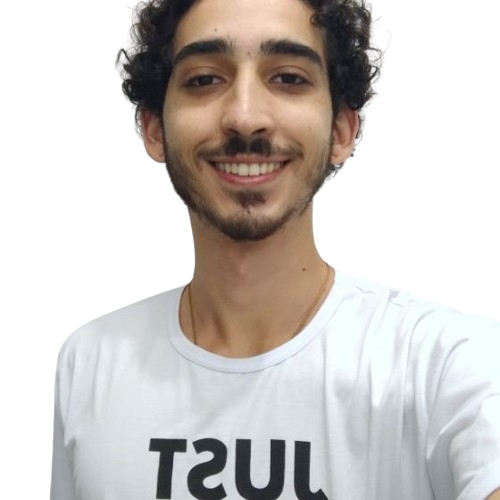
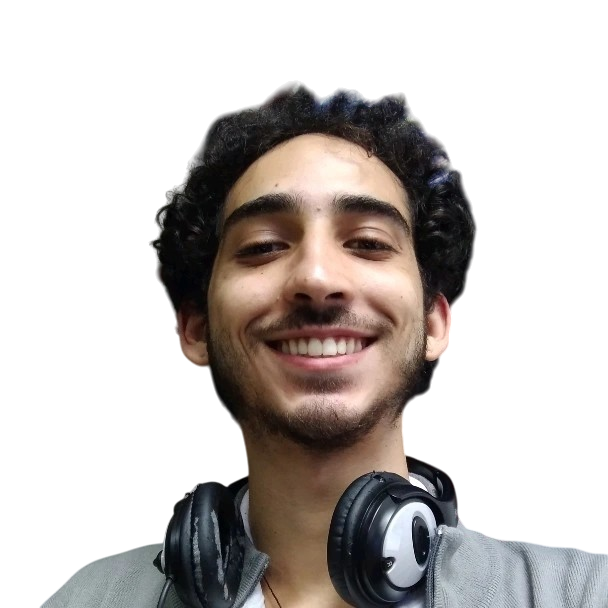
two slides per page

diff --git a/index.html b/index.html
@@ -6,13 +6,12 @@
   <meta charset="utf-8">
   <meta content="width=device-width, initial-scale=1.0" name="viewport">
 
-  <title>RicardoBPC - Portfólio</title>
+  <title>Ricardo Patriani</title>
   <meta content="" name="description">
   <meta content="" name="keywords">
 
   <!-- Favicons -->
-  <link href="assets/img/favicon.png" rel="icon">
-  <link href="assets/img/apple-touch-icon.png" rel="apple-touch-icon">
+  <link href="assets/img/favicon.png" rel="icon" >
 
   <!-- Google Fonts -->
   <link href="https://fonts.googleapis.com/css?family=Open+Sans:300,300i,400,400i,600,600i,700,700i|Raleway:300,300i,400,400i,500,500i,600,600i,700,700i|Poppins:300,300i,400,400i,500,500i,600,600i,700,700i" rel="stylesheet">
@@ -63,7 +62,7 @@
     <div class="container" data-aos="zoom-in" data-aos-delay="100">
       <h2>Ricardo B. Patriani de Carvalho</h2>
       <!-- <p>I'm <span class="typed typed_extra_style" data-typed-items="DBA Oracle, OGG Administrator, Data Science Enthusiast"></span></p> -->
-      <p><span class="typed typed_extra_style" data-typed-items="Apaixonado por dados, Busca inovação (otimizada),e por meios criteriosos "></span></p>
+      <p><span class="typed typed_extra_style" data-typed-items="Orientado a dados, Soluções otimizadas, Aprendizado contínuo e acelerado"></span></p>
       <div class="social-links">
         <a href="mailto:patriani.ricardo@gmail.com" class="google-plus"><i class="bi bi-envelope-at-fill"></i></a>
         <a href="https://github.com/patriani" class="google-plus"><i class="bi bi-github"></i></a>
@@ -95,13 +94,12 @@
             <h3 style="margin-bottom: 1rem ;">Sobre:</h3>
             <p>
               Prezados, <br>
-            Sou Ricardo Bortolucci P. de Carvalho, 23 anos, formado em Sistemas de Informação pela Universidade Federal de Viçosa (MG). Atuei como Analista de Qualidade de Software, Assessor de Marketing, Monitor de Matemática Discreta e atualmente sou Trainee Database Administrator (DBA). Como características pessoais centrais, destaco: curiosidade, criatividade e ótima capacidade em aprender de forma acelerada e autônoma.
-            Certo de sua atenção, fico ao dispor para melhores esclarecimentos.
+              Adapto-me rapidamente a novas tecnologias, atuo com precisão em situações emergenciais e mantenho um relacionamento eficiente com stackholders. Sou motivado pela resolução criativa de problemas, guiado por curiosidade, autodidatismo e busca contínua por excelência. 
             </p>
+
             <div class="row" style="margin-top:  4rem;">
               <h3>Conhecimentos:</h3>
-              <!--<div class="col-lg-6"></div>-->
-              <div class="col-lg-6">
+              <div class="col-lg-6" style="width:100%">
 
                 <div class="testimonials-slider swiper" data-aos="fade-up" data-aos-delay="100">
                   <div class="swiper-wrapper">
@@ -118,7 +116,7 @@
                     </p>
                     </div>
                   </div>
-                  <!-- End testimonial item -->
+                  <!-- End item -->
                   <div class="swiper-slide">
                     <div class="testimonial-item">
                       <svg xmlns="http://www.w3.org/2000/svg" width="4rem" height="4rem" fill="currentColor" class="bi bi-filetype-py" viewBox="0 0 16 16" style=" color: #0678e3;">
@@ -129,7 +127,7 @@
                       Um ano de experiência profissional com Python em troubleshooting e manutenção de APIs. Uso acadêmico desde 2018, atualmente aplicado a projetos de dados na pós-graduação em Inteligência Artificial.                    </p>
                     </div>
                   </div>
-                  <!-- End testimonial item -->
+                  <!-- End item -->
                   <div class="swiper-slide">
                     <div class="testimonial-item">
                       <svg xmlns="http://www.w3.org/2000/svg"  width="4rem" height="4rem" fill="currentColor" class="bi bi-cloud" viewBox="0 0 16 16" style=" color: #0678e3;">
@@ -141,7 +139,7 @@
                     </p>
                     </div>
                   </div>
-                  <!-- End testimonial item -->
+                  <!-- End item -->
                 <div class="swiper-slide">
                   <div class="testimonial-item">
                     <svg xmlns="http://www.w3.org/2000/svg" width="4rem" height="4rem" fill="currentColor" class="bi bi-database h1 " viewBox="0 0 16 16" style=" color: #0678e3;">
@@ -152,7 +150,7 @@
                     Dois anos de experiência com bancos relacionais, com foco em Oracle e familiaridade com PostgreSQL e MSSQL. Atuo na configuração de replicações, rotinas de backup, troubleshooting e health checks.                    </p>
                   </div>
                 </div>
-                <!-- End testimonial item -->
+                <!-- End item -->
 
                 </div>
 
@@ -164,28 +162,17 @@
         </div>
 
       </div>
-    </section><!-- End About Section -->
+    </section><!-- End Section -->
 
 
     <!-- ======= Resume Section ======= -->
     <section id="resume" class="resume">
       <div class="container" data-aos="fade-up">
-
         <div class="section-title">
           <h2>Currículo</h2>
         </div>
-
         <div class="row">
           <div class="col-lg-6">
-            <h3 class="resume-title">Síntese</h3>
-            <div class="resume-item pb-0">
-              <h4>Ricardo Bortolucci Patriani de Carvalho</h4>
-              <p><em>
-                Adapto-me rapidamente a novas tecnologias, atuo com precisão em situações emergenciais e mantenho um relacionamento eficiente com clientes. Sou motivado pela resolução criativa de problemas, guiado por curiosidade, autodidatismo e busca contínua por excelência. 
-              </em></p>
-
-            </div>
-
             <h3 class="resume-title">Formação</h3>
             <div class="resume-item">
               <h4>Pós-Graduando em Inteligência Artificial</h4>

diff --git a/assets/js/main.js b/assets/js/main.js
@@ -235,6 +235,7 @@
   /**
    * Testimonials slider
    */
+  /* --> Versão para apenas um slide por vez:
   new Swiper('.testimonials-slider', {
     speed: 600,
     loop: true,
@@ -248,7 +249,36 @@
       type: 'bullets',
       clickable: true
     }
+  });*/
+  
+/*Versão para dois slides por vez*/
+  new Swiper('.testimonials-slider', {
+    speed: 600,
+    loop: true,
+    autoplay: {
+      delay: 5000,
+      disableOnInteraction: false
+    },
+    slidesPerView: 2, // Mostra 2 slides
+    spaceBetween: 30, // Espaço entre os slides (opcional)
+    pagination: {
+      el: '.swiper-pagination',
+      type: 'bullets',
+      clickable: true
+    },
+    breakpoints: {
+      0: {
+        slidesPerView: 1
+      },
+      768: {
+        slidesPerView: 2
+      }
+    }
   });
+  
+
+
+
 
   /**
    * Animation on scroll

diff --git a/portfolio-details.html b/portfolio-details.html
@@ -10,8 +10,8 @@
   <meta content="" name="keywords">
 
   <!-- Favicons -->
-  <link href="assets/img/favicon.png" rel="icon">
-  <link href="assets/img/apple-touch-icon.png" rel="apple-touch-icon">
+  <link href="assets/img/icons8-terminal-50.png" rel="icon">
+  <link href="assets/img/icons8-terminal-50.png" rel="apple-touch-icon">
 
   <!-- Google Fonts -->
   <link href="https://fonts.googleapis.com/css?family=Open+Sans:300,300i,400,400i,600,600i,700,700i|Raleway:300,300i,400,400i,500,500i,600,600i,700,700i|Poppins:300,300i,400,400i,500,500i,600,600i,700,700i" rel="stylesheet">
